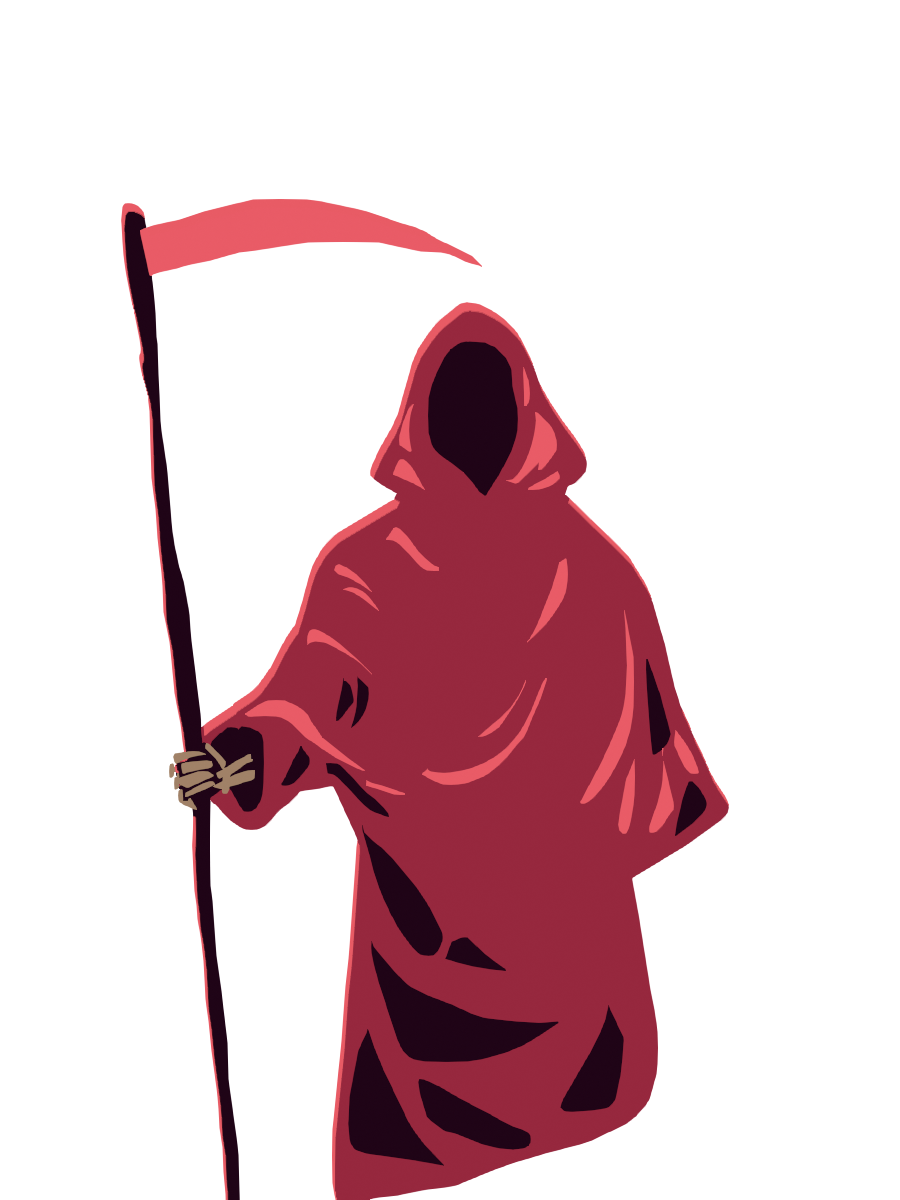
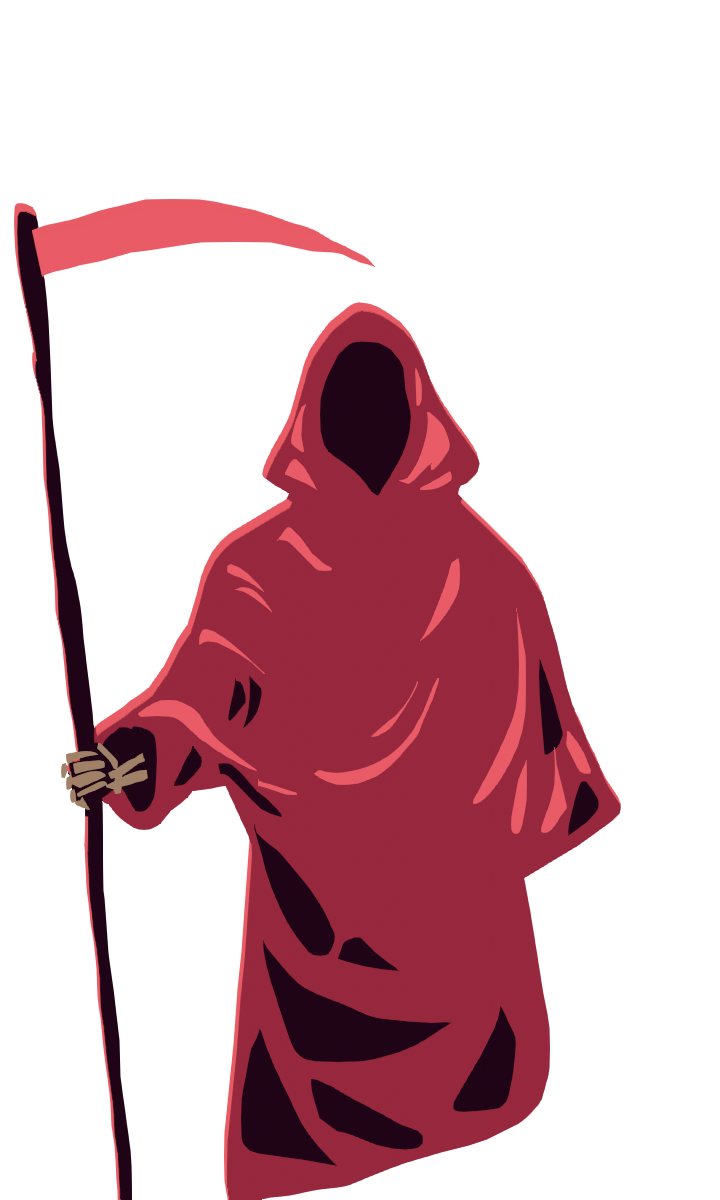
chat

diff --git a/src/color.ts b/src/color.ts
@@ -1,0 +1,95 @@
+import { clamp, lerp} from "./utils";
+
+export class CustomColor {
+    r: number;
+    g: number;
+    b: number;
+    constructor(r: number = 0, g: number = 0, b: number = 0) {
+        this.r = Math.floor(r);
+        this.g = Math.floor(g);
+        this.b = Math.floor(b);
+    }
+    toShader(): [number, number, number] {
+        return [this.r / 255, this.g / 255, this.b / 255];
+    }
+    toPixi(): number {
+        return (this.r << 16) + (this.g << 8) + this.b
+    }
+    toHSL() {
+        let r = this.r / 255;
+        let g = this.g / 255;
+        let b = this.b / 255;
+        const l = Math.max(r, g, b);
+        const s = l - Math.min(r, g, b);
+        const h = s
+            ? l === r
+                ? (g - b) / s
+                : l === g
+                    ? 2 + (b - r) / s
+                    : 4 + (r - g) / s
+            : 0;
+        return [
+            60 * h < 0 ? 60 * h + 360 : 60 * h,
+            (s ? (l <= 0.5 ? s / (2 * l - s) : s / (2 - (2 * l - s))) : 0),
+            ((2 * l - s)) / 2,
+        ];
+    }
+    toCSS() {
+        return `rgb(${this.r},${this.g},${this.b})`;
+    }
+    toHTML(){
+        return `#${this.r.toString(16)}${this.g.toString(16)}${this.b.toString(16)}`
+    }
+    mix(color: CustomColor, ratio = 0.5) {
+        ratio = Math.min(1, Math.max(0, ratio));
+        return new CustomColor(lerp(this.r, color.r, ratio), lerp(this.g, color.g, ratio), lerp(this.b, color.b, ratio))
+    }
+    add(color: CustomColor, ratio = 1) {
+        ratio = clamp(ratio);
+        return new CustomColor(this.r + color.r * ratio, this.g + color.g * ratio, this.b + color.b * ratio);
+    }
+    mult(color: CustomColor) {
+        return new CustomColor(this.r * color.r / 255, this.g * color.g / 255, this.b * color.b / 255,);
+    }
+    copy() {
+        return new CustomColor(this.r, this.g, this.b);
+    }
+    static fromHsl(h: number, s: number, l: number) {
+        //H: 0 - 360; S: 0 - 1; L:0 - 1;
+        if (s == 0) {
+            return new CustomColor(l * 255, l * 255, l * 255);
+        }
+        else {
+            const k = (n: number) => (n + h / 30) % 12;
+            const a = s * Math.min(l, 1 - l);
+            const f = (n: number) =>
+                l - a * Math.max(-1, Math.min(k(n) - 3, Math.min(9 - k(n), 1)));
+            return new CustomColor(255 * f(0), 255 * f(8), 255 * f(4))
+        }
+    }
+    static fromPixi(color: number): CustomColor {
+        return new CustomColor((color >> 16) & 0xFF, (color >> 8) & 0xFF, color & 0xFF);
+    }
+    static fromShader(color: [number, number, number]): CustomColor {
+        return new CustomColor(color[0] * 255, color[1] * 255, color[2] * 255);
+    }
+    static fromHTML(color: string): CustomColor {
+        if(color.startsWith('#')) color = color.substring(1);
+        return new CustomColor(parseInt(color.substring(0, 2), 16), parseInt(color.substring(2, 4), 16), parseInt(color.substring(4, 6), 16));
+    }
+    /*static random(generator: RandomGenerator) {
+        return new CustomColor(generator.int(0, 255), generator.int(0, 255), generator.int(0, 255));
+    }
+    static randomAroundHSL(generator: RandomGenerator, h: number, hRand: number, s: number, sRand: number, l: number, lRand: number) {
+        return this.fromHsl(h + generator.range(-hRand, hRand), s + generator.range(-sRand, sRand), l + generator.range(-lRand, lRand))
+    }*/
+    static white(){
+        return new CustomColor(255,255,255);
+    }
+    static black(){
+        return new CustomColor(0,0,0);
+    }
+    static gray(luma: number){
+        return new CustomColor(luma,luma,luma);
+    }
+}

diff --git a/src/htmlChat.ts b/src/htmlChat.ts
@@ -1,5 +1,7 @@
 import type { ChatResponseOption } from "./chat";
+import { CustomColor } from "./color";
 import { game, UpdateOrder, type IUpdatable } from "./game";
+import type { Person } from "./person";
 import type { IDestroyable } from "./scene";
 
 export class HTMLChat implements IUpdatable, IDestroyable {
@@ -11,6 +13,8 @@ export class HTMLChat implements IUpdatable, IDestroyable {
     leftPortrait: HTMLElement;
     leftName: HTMLElement;
     optionsElement?: HTMLElement;
+    person: Person;
+    color: CustomColor;
     private _scrollBottom = 0;
     private _scrollTarget = 0;
     public get scrollTarget() {
@@ -29,10 +33,18 @@ export class HTMLChat implements IUpdatable, IDestroyable {
         this._scrollBottom = value;
         this.messagesWrapper.style.bottom = `${this._scrollBottom}px`;
     }
-    constructor() {
+    constructor(person: Person) {
+        this.person = person;
+        this.color = CustomColor.fromHTML(this.person.color);
         this.parentElement = customDiv(document.body, '', 'absolute');
-        this.leftName = customDiv(this.parentElement, 'Death', 'chat-name', 'left');
+        this.parentElement.style.setProperty("--color", this.person.color);
+        const hsl = this.color.toHSL();
+        this.parentElement.style.setProperty("--bg-color", CustomColor.fromHsl(hsl[0], hsl[1] * .4, hsl[2] * .2 + .1).toCSS());
+        this.parentElement.style.setProperty("--outline-color", CustomColor.fromHsl(hsl[0], hsl[1] * .7, hsl[2] * .6).toCSS());
+        this.leftName = customDiv(this.parentElement, this.person.name, 'chat-name', 'left');
+        this.leftName.style.color = this.person.color;
         this.leftPortrait = customDiv(this.parentElement, '', 'chat-portrait', 'left');
+        this.leftPortrait.style.backgroundImage = `url(${this.person.image})`;
         this.vignetteBg = customDiv(this.parentElement, '', 'chat-vignette');
         this.vignetteFg = customDiv(this.parentElement, '', 'chat-vignette', 'fg');
         this.wrapperElement = customDiv(this.parentElement, '', 'chat-wrapper');

diff --git a/src/style/chat.css b/src/style/chat.css
@@ -15,6 +15,10 @@
     width: 100vw;
     height: 100vh;
     pointer-events: none;
+    --player-color: #db2d81;
+    --player-color-semi: #db2d816d;
+    --player-bg: #902669;
+    --player-bg-muted:#531e40;
 }
 
 .chat-vignette {
@@ -38,7 +42,7 @@
     position: absolute;
     bottom: 0;
     left: 0;
-    width: 75vh;
+    width: 60vh;
     height: 100vh;
     background-size: contain;
     background-repeat: no-repeat;
@@ -52,7 +56,7 @@
     position: absolute;
     bottom: 0;
     left: 0;
-    width: 30vw;
+    width: 60vh;
     height: 20vh;
     z-index: 2;
     pointer-events: none;
@@ -111,14 +115,14 @@
     margin-bottom: 10px;
     width: fit-content;
     align-self: flex-end;
-    background-color: rgb(20, 20, 20);
-    outline: 2px solid rgba(224, 31, 57, 0.468);
+    background-color: var(--player-bg-muted);
+    outline: 2px solid var(--player-color);
     border-radius: 10px;
 }
 
 .chat-options div:hover {
-    background-color: rgb(49, 36, 38);
-    outline: 2px solid rgba(224, 31, 57, 0.889);
+    background-color: var(--player-bg);
+    outline: 2px solid var(--player-color);
     cursor: pointer;
 }
 
@@ -137,14 +141,16 @@
 
 .chat-message {
     padding: 1em 1.5em;
-    background-color: rgb(48, 48, 48);
+    background-color: var(--bg-color);
+    border: 2px solid var(--outline-color);
     border-radius: 10px;
     border-bottom-left-radius: 0px;
     --calc-height: 45px;
 }
 
 .chat-message.request {
-    background-color: #90263B;
+    background-color: #272727;
+    border-color: var(--player-color-semi);
     align-self: flex-end;
     border-bottom-left-radius: 10px;
     border-bottom-right-radius: 0px;

diff --git a/src/levels.ts b/src/levels.ts
@@ -24,7 +24,7 @@ export function testing() {
 
         const antialergenPrepared = new Fact(FactType.misc, "Antialergen is prepared.");
 
-        const death = new Person("Death");
+        const death = new Person({ name: "Death", color: "#F13A3A", image: "img/death/0001.png" });
         death.knownFromStart = true;
         death.chat.addMessage("Hello", false);
         const initial = death.addCommunication({
@@ -76,7 +76,7 @@ export function testing() {
 
 
 
-        const bob = new Person("Bob");
+        const bob = new Person({ name: "Bob", color: "#39B3B3" });
 
         bob.knownByFact = fbob;
 
@@ -150,7 +150,7 @@ export function testing() {
         });
 
 
-        const clara = new Person("Clara");
+        const clara = new Person({ name: "Clara", color: "#39B3B3" });
         clara.knownByFact = fclara;
         clara.responses.set(fclara, {
             askAs: "Tell me about John's friends.",

diff --git a/src/person.ts b/src/person.ts
@@ -13,6 +13,8 @@ export class Person {
     knownFromStart = false;
     responses = new Map<Fact, Communication>();
     chat: Chat;
+    color: string;
+    image: string;
 
     knownByFact?: Fact;
 
@@ -26,8 +28,10 @@ export class Person {
         return scene.getFirst<Notebook>(Notebook)!;
     }
 
-    constructor(name: string) {
-        this.name = name;
+    constructor(options:{name: string, color?: string, image?: string}) {
+        this.color = options.color ?? '#ffffff';
+        this.name = options.name;
+        this.image = options.image ?? 'img/ball.png';
         scene.add(Person, this);
         this.chat = new Chat(this);
         this.chat.hideChat();

diff --git a/src/chat.ts b/src/chat.ts
@@ -8,9 +8,10 @@ export class Chat {
     responseColor = 0x333333;
     person: Person;
     htmlChat: HTMLChat;
+    static isInChat = false;
 
     constructor(person: Person) {
-        this.htmlChat = new HTMLChat();
+        this.htmlChat = new HTMLChat(person);
         this.person = person;
     }
 
@@ -36,6 +37,7 @@ export class Chat {
 
     hideChat() {
         this.htmlChat.parentElement.style.display = "none";
+        Chat.isInChat = false;
     }
 
     showChat() {
@@ -44,6 +46,7 @@ export class Chat {
             person.chat.hideChat();
         }
         this.htmlChat.parentElement.style.display = "block";
+        Chat.isInChat = true;
     }
 }
 

diff --git a/src/home.ts b/src/home.ts
@@ -1,6 +1,7 @@
 import { Assets, FederatedPointerEvent, Graphics, Rectangle, Sprite } from "pixi.js";
 import { game, scene, UpdateOrder } from "./game";
 import { sound } from "@pixi/sound";
+import { Chat } from "./chat";
 
 export class Home {
     bgSprite: Sprite;
@@ -22,6 +23,7 @@ export class Home {
     }
 
     mouseMove(e: FederatedPointerEvent) {
+        if(Chat.isInChat) return;
         const doorDist = 500;
         const doorWidth = 250;
         const doorHeight = 700;

diff --git a/src/utils.ts b/src/utils.ts
@@ -1,3 +1,11 @@
 export function pickRandom<T>(array: T[]): T {
     return array[Math.floor(Math.random() * array.length)]
 }
+
+export function lerp(a: number, b: number, t: number) {
+    return a + (b - a) * t;
+}
+
+export function clamp(n: number, min = 0, max = 1) {
+    return Math.min(max, Math.max(min, n));
+}
